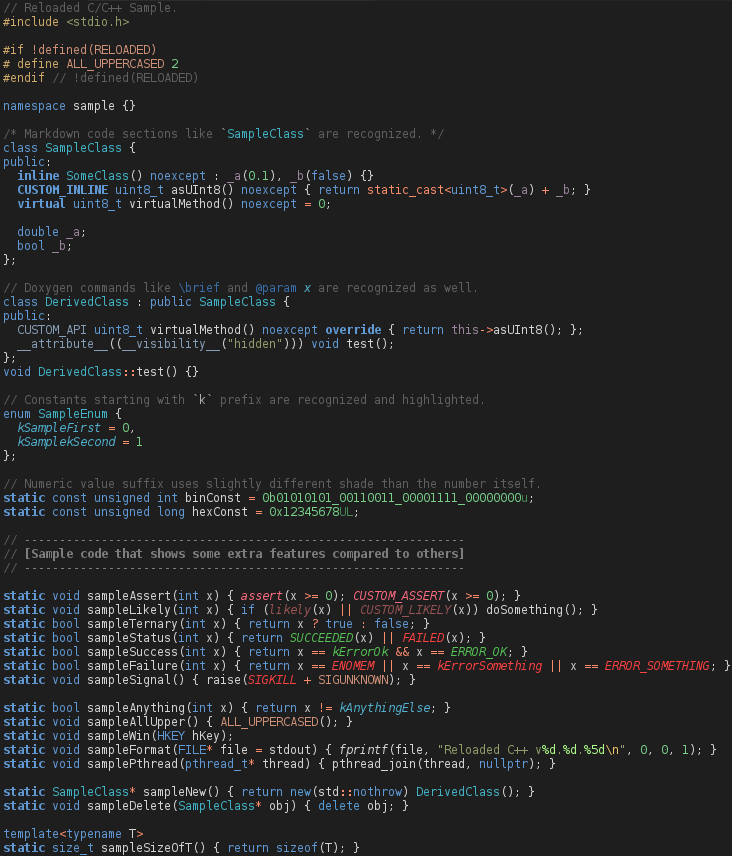
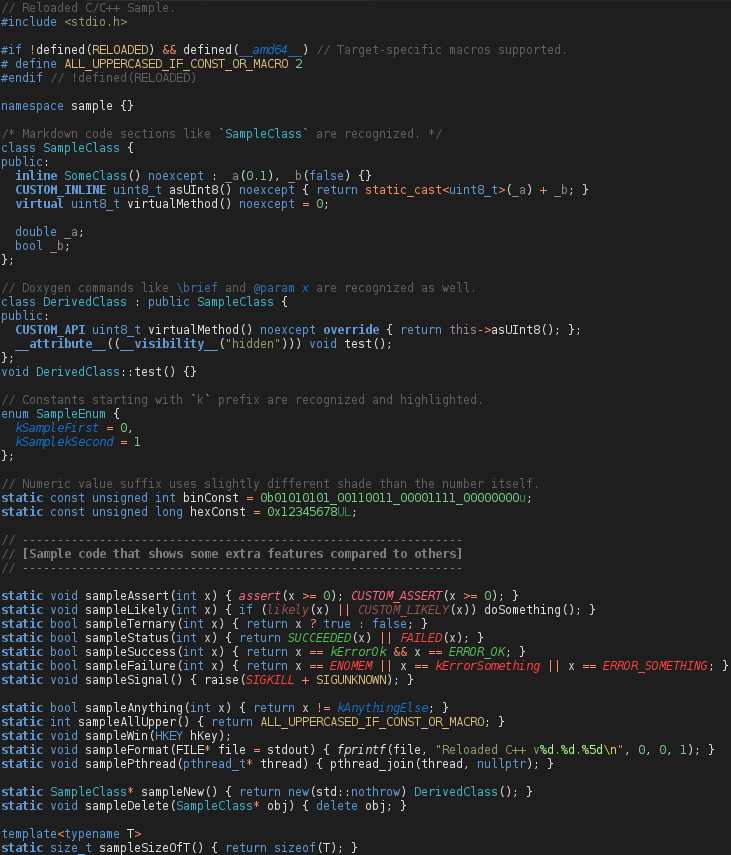
Changes required for new vs-code, minor styling improvements

diff --git a/samples/sample.cpp b/samples/sample.cpp
@@ -1,8 +1,8 @@
 // Reloaded C/C++ Sample.
 #include <stdio.h>
 
-#if !defined(RELOADED)
-# define ALL_UPPERCASED 2
+#if !defined(RELOADED) && defined(__amd64__) // Target-specific macros supported.
+# define ALL_UPPERCASED_IF_CONST_OR_MACRO 2
 #endif // !defined(RELOADED)
 
 namespace sample {}
@@ -49,7 +49,7 @@ static bool sampleFailure(int x) { return x == ENOMEM || x == kErrorSomething ||
 static void sampleSignal() { raise(SIGKILL + SIGUNKNOWN); }
 
 static bool sampleAnything(int x) { return x != kAnythingElse; }
-static void sampleAllUpper() { ALL_UPPERCASED(); }
+static int sampleAllUpper() { return ALL_UPPERCASED_IF_CONST_OR_MACRO; }
 static void sampleWin(HKEY hKey);
 static void sampleFormat(FILE* file = stdout) { fprintf(file, "Reloaded C++ v%d.%d.%5d\n", 0, 0, 1); }
 static void samplePthread(pthread_t* thread) { pthread_join(thread, nullptr); }
@@ -59,3 +59,4 @@ static void sampleDelete(SampleClass* obj) { delete obj; }
 
 template<typename T>
 static size_t sampleSizeOfT() { return sizeof(T); }
+
